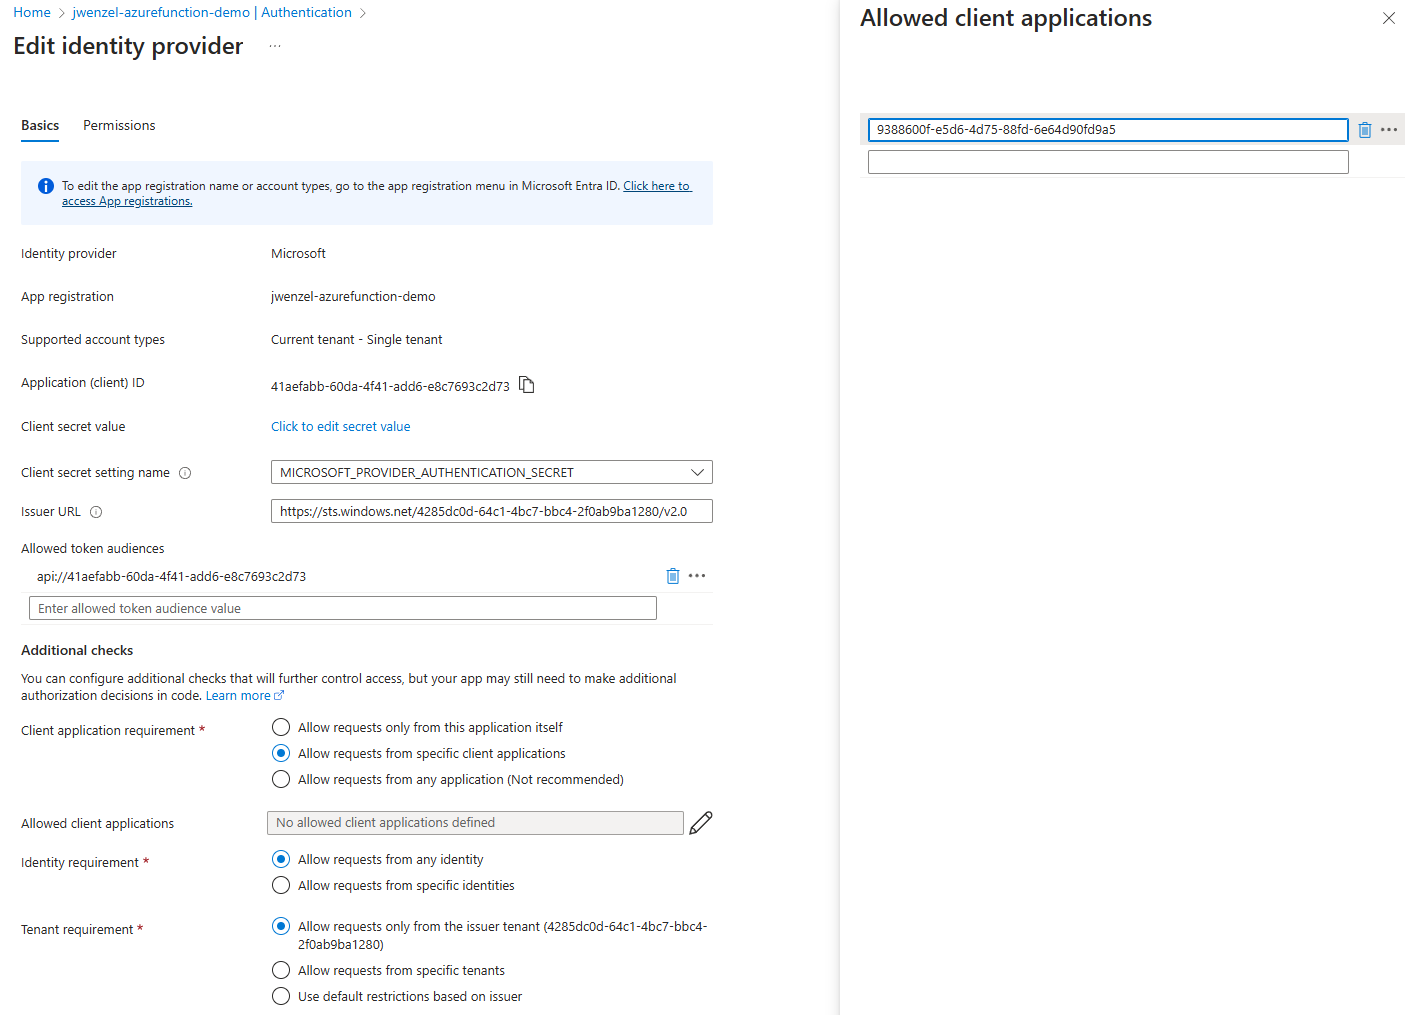
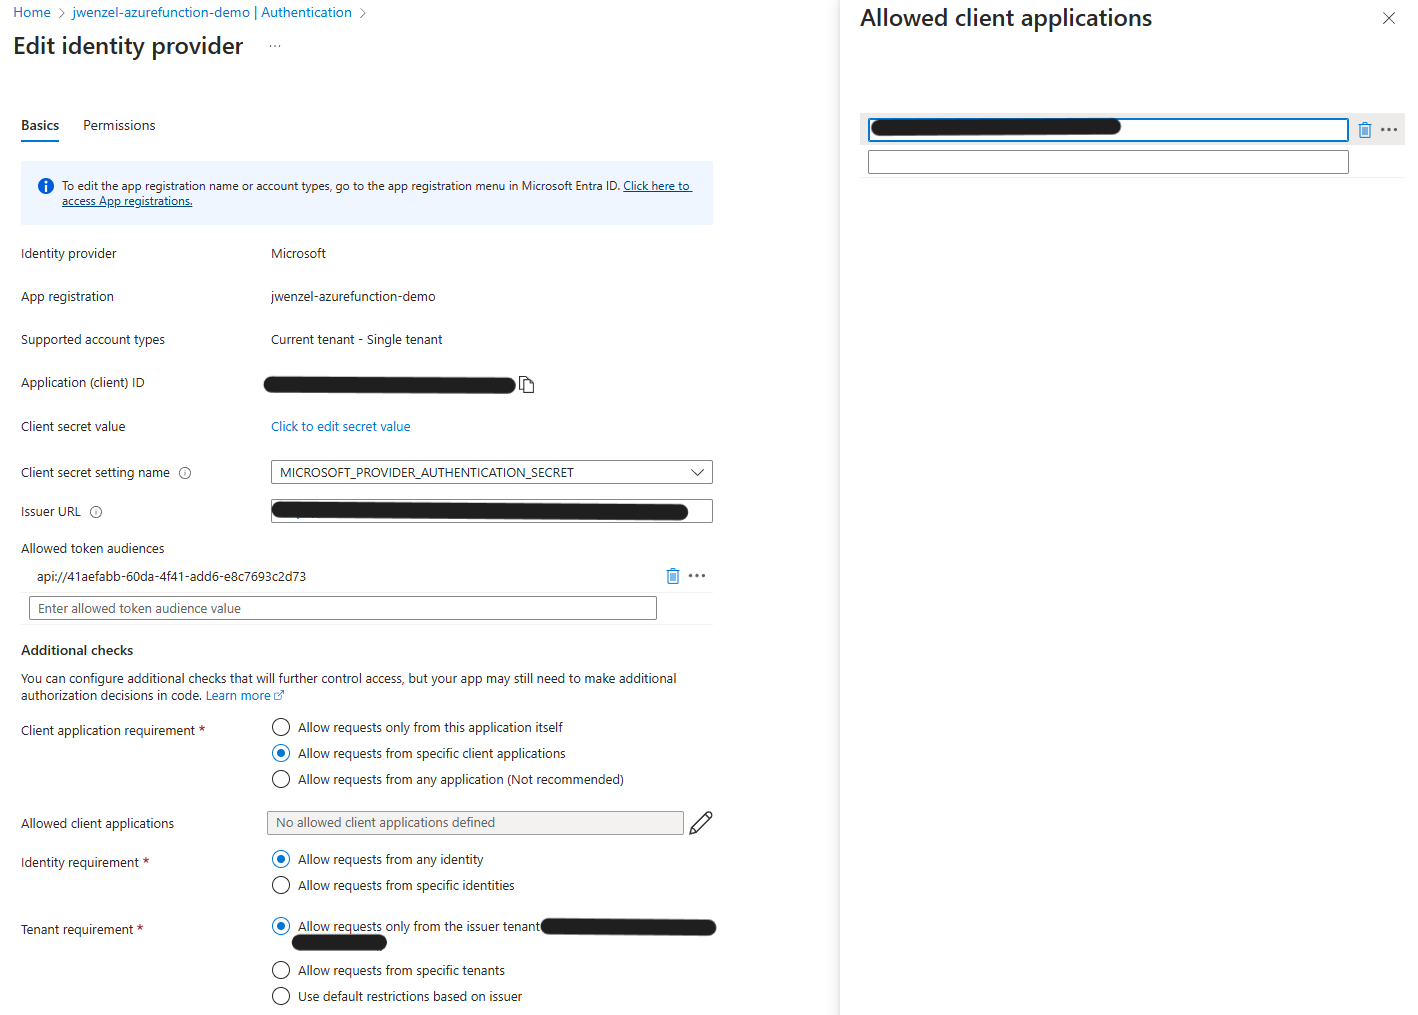
Managed Identity posts

diff --git a/src/styles/global.css b/src/styles/global.css
@@ -32,7 +32,21 @@ a:hover {
   position: relative;
 }
 
-.content-wrap
-{
+.content-wrap {
   padding-bottom: 2.5rem;
+}
+
+.italic-text {
+  font-style: italic;
+}
+
+.center-text {
+  text-align: center;
+}
+
+img {
+  display: block;
+  max-width: 100%;
+  height: auto;
+  margin: 2rem auto;
 }

diff --git a/src/pages/blog/azure-function-managed-identity-auth.md b/src/pages/blog/azure-function-managed-identity-auth.md
@@ -1,6 +1,7 @@
 ---
 layout: ../../layouts/PostLayout.astro
 title: 'Azure Function HTTP authentication with Managed Identities'
+date: 'Jan 27, 2024'
 ---
 
 One problem I ran into at my job was to create an Azure App Service that could authenticate with an Azure Function.
@@ -220,6 +221,8 @@ Apparently, when a System Managed Identity is created, it creates an Enterprise 
 Now all you need to do is collect the "Application ID". This is the client ID that you can use in the allowed client applications in the azure function.
 
 Go back to the Azure Function authentication landing and edit the Microsoft Identity Provider. Under "Allowed client applications" set the GUID that you got from the Enterprise Application ID.
+
+![Allow client application](./img/AllowingClientApplication.png)
 
 ### Authenticating with code
 